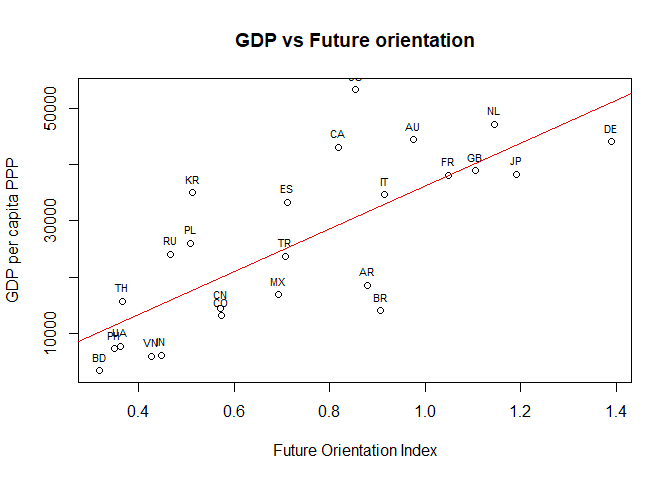
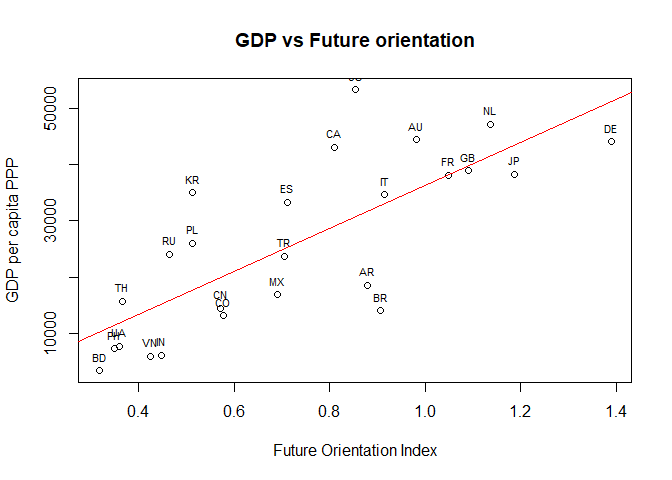
correct typo

diff --git a/GDP and Future Orientation/GDP_and_Future_Orientation.md b/GDP and Future Orientation/GDP_and_Future_Orientation.md
@@ -180,53 +180,53 @@ for(current_country in table[,"iso2c"])
     ## [1] "AR"
     ## [1] 0.8784773
     ## [1] "AU"
-    ## [1] 0.9762752
+    ## [1] 0.9808612
     ## [1] "BD"
     ## [1] 0.3167747
     ## [1] "BR"
     ## [1] 0.9069444
     ## [1] "CA"
-    ## [1] 0.8187744
+    ## [1] 0.8101266
     ## [1] "CN"
     ## [1] 0.5698835
     ## [1] "CO"
-    ## [1] 0.5727136
+    ## [1] 0.577548
     ## [1] "DE"
     ## [1] 1.389545
     ## [1] "ES"
     ## [1] 0.7122208
     ## [1] "FR"
-    ## [1] 1.049635
+    ## [1] 1.048851
     ## [1] "GB"
-    ## [1] 1.104651
+    ## [1] 1.09
     ## [1] "IN"
-    ## [1] 0.4481577
+    ## [1] 0.447437
     ## [1] "IT"
     ## [1] 0.9139633
     ## [1] "JP"
-    ## [1] 1.191244
+    ## [1] 1.1875
     ## [1] "KR"
     ## [1] 0.5116279
     ## [1] "MX"
-    ## [1] 0.6933896
+    ## [1] 0.6908078
     ## [1] "NL"
-    ## [1] 1.145062
+    ## [1] 1.136923
     ## [1] "PH"
     ## [1] 0.3491228
     ## [1] "PL"
-    ## [1] 0.5075758
+    ## [1] 0.5132827
     ## [1] "RU"
-    ## [1] 0.4666667
+    ## [1] 0.4642032
     ## [1] "TH"
     ## [1] 0.3648339
     ## [1] "TR"
-    ## [1] 0.7069444
+    ## [1] 0.7058011
     ## [1] "UA"
-    ## [1] 0.3610574
+    ## [1] 0.3587444
     ## [1] "US"
     ## [1] 0.8547341
     ## [1] "VN"
-    ## [1] 0.4272227
+    ## [1] 0.4246682
 
 ``` r
 #table = table[complete.cases(table),]
@@ -247,18 +247,18 @@ summary(reg)
     ## 
     ## Residuals:
     ##    Min     1Q Median     3Q    Max 
-    ## -18606  -6804  -1323   8058  22634 
+    ## -18683  -6970  -1326   8010  22565 
     ## 
     ## Coefficients:
     ##             Estimate Std. Error t value Pr(>|t|)    
-    ## (Intercept)    -1958       5305  -0.369    0.715    
-    ## FOI            38136       6734   5.663 9.15e-06 ***
+    ## (Intercept)    -2019       5320  -0.379    0.708    
+    ## FOI            38288       6768   5.657 9.28e-06 ***
     ## ---
     ## Signif. codes:  0 '***' 0.001 '**' 0.01 '*' 0.05 '.' 0.1 ' ' 1
     ## 
-    ## Residual standard error: 10010 on 23 degrees of freedom
-    ## Multiple R-squared:  0.5823, Adjusted R-squared:  0.5642 
-    ## F-statistic: 32.07 on 1 and 23 DF,  p-value: 9.153e-06
+    ## Residual standard error: 10020 on 23 degrees of freedom
+    ## Multiple R-squared:  0.5818, Adjusted R-squared:  0.5637 
+    ## F-statistic:    32 on 1 and 23 DF,  p-value: 9.283e-06
 
 ``` r
 plot(table$FOI, table$NY.GDP.PCAP.PP.KD, main='GDP vs Future orientation', ylab='GDP per capita PPP', xlab='Future Orientation Index')
